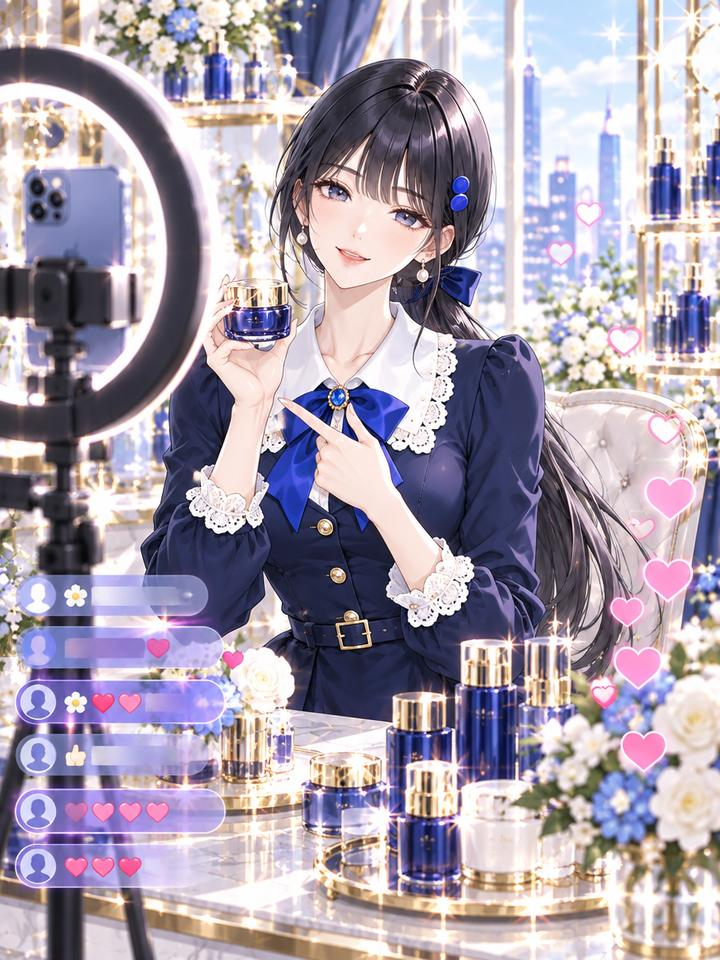
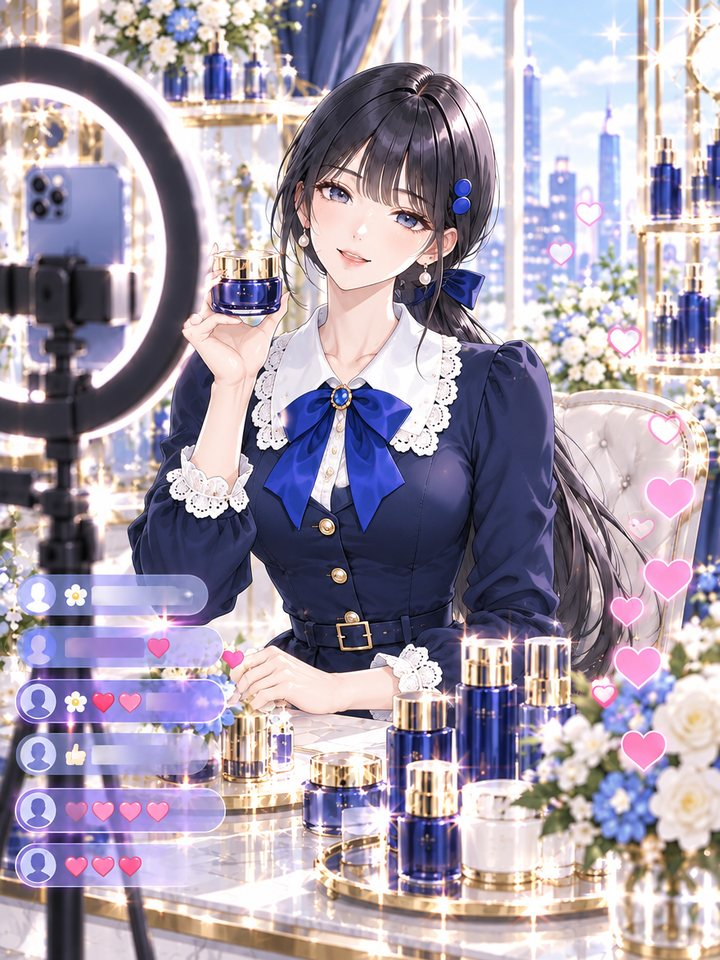
fix: cg_chuseok_30·cg_fake3·act_live_mid 팔 오류 수정 (빌드 2026.11.11-F)
Claude-Session: https://claude.ai/code/session_01TQ9M24cEoVVHrnb37iRmR3

diff --git a/sw.js b/sw.js
@@ -1,4 +1,4 @@
-const CACHE='stagezero-4fc27ec99d';
+const CACHE='stagezero-fd476949c8';
 const ASSETS=["./", "index.html", "manifest.json", "icon-192.png", "icon-512.png", "apple-touch-icon.png", "art/act_academy.jpg", "art/act_academy_late.jpg", "art/act_academy_mid.jpg", "art/act_acting.jpg", "art/act_acting_late.jpg", "art/act_acting_mid.jpg", "art/act_art.jpg", "art/act_art_late.jpg", "art/act_art_mid.jpg", "art/act_blind.jpg", "art/act_board.jpg", "art/act_brandlab.jpg", "art/act_brandlab_late.jpg", "art/act_brandlab_mid.jpg", "art/act_cert.jpg", "art/act_cert_late.jpg", "art/act_cert_mid.jpg", "art/act_club.jpg", "art/act_concert.jpg", "art/act_concert_late.jpg", "art/act_concert_mid.jpg", "art/act_date.jpg", "art/act_diet.jpg", "art/act_diet_late.jpg", "art/act_diet_mid.jpg", "art/act_emba.jpg", "art/act_expo.jpg", "art/act_expo_late.jpg", "art/act_expo_mid.jpg", "art/act_growth.jpg", "art/act_growth_late.jpg", "art/act_growth_mid.jpg", "art/act_hire.jpg", "art/act_hire_late.jpg", "art/act_hire_mid.jpg", "art/act_ir.jpg", "art/act_ir_late.jpg", "art/act_ir_mid.jpg", "art/act_lang.jpg", "art/act_lang_late.jpg", "art/act_lang_mid.jpg", "art/act_live.jpg", "art/act_live_late.jpg", "art/act_live_mid.jpg", "art/act_mba.jpg", "art/act_mba_late.jpg", "art/act_mba_mid.jpg", "art/act_oneday.jpg", "art/act_oneday_late.jpg", "art/act_oneday_mid.jpg", "art/act_party.jpg", "art/act_party_late.jpg", "art/act_party_mid.jpg", "art/act_pet.jpg", "art/act_pet_late.jpg", "art/act_pet_mid.jpg", "art/act_phd.jpg", "art/act_picnic.jpg", "art/act_picnic_late.jpg", "art/act_picnic_mid.jpg", "art/act_pilates.jpg", "art/act_pilates_late.jpg", "art/act_pilates_mid.jpg", "art/act_popup.jpg", "art/act_popup_late.jpg", "art/act_popup_mid.jpg", "art/act_pt_cafe.jpg", "art/act_pt_cafe_mid.jpg", "art/act_pt_clinic.jpg", "art/act_pt_clinic_late.jpg", "art/act_pt_clinic_mid.jpg", "art/act_pt_consult.jpg", "art/act_pt_consult_late.jpg", "art/act_pt_consult_mid.jpg", "art/act_pt_cvs.jpg", "art/act_pt_hb.jpg", "art/act_pt_hb_mid.jpg", "art/act_pt_host.jpg", "art/act_pt_host_late.jpg", "art/act_pt_host_mid.jpg", "art/act_pt_influ.jpg", "art/act_pt_lecture.jpg", "art/act_pt_lecture_late.jpg", "art/act_pt_lecture_mid.jpg", "art/act_pt_model.jpg", "art/act_pt_model_late.jpg", "art/act_pt_model_mid.jpg", "art/act_pt_mua.jpg", "art/act_pt_mua_late.jpg", "art/act_pt_mua_mid.jpg", "art/act_rest.jpg", "art/act_rest_late.jpg", "art/act_rest_mid.jpg", "art/act_rnd.jpg", "art/act_rnd_late.jpg", "art/act_rnd_mid.jpg", "art/act_running.jpg", "art/act_running_late.jpg", "art/act_running_mid.jpg", "art/act_seed.jpg", "art/act_seed_late.jpg", "art/act_seed_mid.jpg", "art/act_shoot.jpg", "art/act_shoot_late.jpg", "art/act_shoot_mid.jpg", "art/act_spa.jpg", "art/act_spa_late.jpg", "art/act_spa_mid.jpg", "art/act_temple.jpg", "art/act_temple_late.jpg", "art/act_temple_mid.jpg", "art/act_vacation.jpg", "art/act_vacation_late.jpg", "art/act_vacation_mid.jpg", "art/act_visit.jpg", "art/act_visit_late.jpg", "art/act_visit_mid.jpg", "art/act_weight.jpg", "art/act_weight_late.jpg", "art/act_weight_mid.jpg", "art/act_yoga.jpg", "art/act_yoga_late.jpg", "art/act_yoga_mid.jpg", "art/age20_autumn.jpg", "art/age20_autumn_t.jpg", "art/age20_ok.jpg", "art/age20_spring.jpg", "art/age20_spring_t.jpg", "art/age20_summer.jpg", "art/age20_summer_t.jpg", "art/age20_tired.jpg", "art/age20_tired_t.jpg", "art/age20_winter.jpg", "art/age20_winter_t.jpg", "art/age22_autumn.jpg", "art/age22_autumn_t.jpg", "art/age22_ok.jpg", "art/age22_spring.jpg", "art/age22_spring_t.jpg", "art/age22_summer.jpg", "art/age22_summer_t.jpg", "art/age22_tired.jpg", "art/age22_tired_t.jpg", "art/age22_winter.jpg", "art/age22_winter_t.jpg", "art/age25_autumn.jpg", "art/age25_autumn_t.jpg", "art/age25_ok.jpg", "art/age25_spring.jpg", "art/age25_spring_t.jpg", "art/age25_summer.jpg", "art/age25_summer_t.jpg", "art/age25_tired.jpg", "art/age25_tired_t.jpg", "art/age25_winter.jpg", "art/age25_winter_t.jpg", "art/age27_autumn.jpg", "art/age27_autumn_t.jpg", "art/age27_ok.jpg", "art/age27_spring.jpg", "art/age27_spring_t.jpg", "art/age27_summer.jpg", "art/age27_summer_t.jpg", "art/age27_tired.jpg", "art/age27_tired_t.jpg", "art/age27_winter.jpg", "art/age27_winter_t.jpg", "art/age30_autumn.jpg", "art/age30_autumn_t.jpg", "art/age30_ok.jpg", "art/age30_spring.jpg", "art/age30_spring_t.jpg", "art/age30_summer.jpg", "art/age30_summer_t.jpg", "art/age30_tired.jpg", "art/age30_tired_t.jpg", "art/age30_winter.jpg", "art/age30_winter_t.jpg", "art/bg_amusement.jpg", "art/bg_beach.jpg", "art/bg_cafe.jpg", "art/bg_gallery.jpg", "art/bg_hangang.jpg", "art/bg_home.jpg", "art/bg_meeting.jpg", "art/bg_office1.jpg", "art/bg_office2.jpg", "art/bg_rain.jpg", "art/bg_restaurant.jpg", "art/bg_rooftop.jpg", "art/bg_ski.jpg", "art/bg_snow.jpg", "art/bg_street.jpg", "art/cg_autumn_dry_20.jpg", "art/cg_autumn_dry_22.jpg", "art/cg_autumn_dry_25.jpg", "art/cg_autumn_dry_27.jpg", "art/cg_autumn_dry_30.jpg", "art/cg_awards.jpg", "art/cg_bday.jpg", "art/cg_breakup.jpg", "art/cg_celeb.jpg", "art/cg_ch1.jpg", "art/cg_ch2.jpg", "art/cg_ch3.jpg", "art/cg_ch4.jpg", "art/cg_chuseok.jpg", "art/cg_chuseok_20.jpg", "art/cg_chuseok_22.jpg", "art/cg_chuseok_25.jpg", "art/cg_chuseok_27.jpg", "art/cg_chuseok_30.jpg", "art/cg_colon_open.jpg", "art/cg_colon_quit.jpg", "art/cg_colon_secret.jpg", "art/cg_confess.jpg", "art/cg_confess_ceo2.jpg", "art/cg_confess_colon.jpg", "art/cg_confess_intern.jpg", "art/cg_confess_playboy.jpg", "art/cg_confess_star.jpg", "art/cg_confess_vc.jpg", "art/cg_date.jpg", "art/cg_fake1.jpg", "art/cg_fake2.jpg", "art/cg_fake3.jpg", "art/cg_fashion.jpg", "art/cg_filming.jpg", "art/cg_finalday.jpg", "art/cg_first_snow.jpg", "art/cg_first_snow_20.jpg", "art/cg_first_snow_22.jpg", "art/cg_first_snow_25.jpg", "art/cg_first_snow_27.jpg", "art/cg_first_snow_30.jpg", "art/cg_health.jpg", "art/cg_hero_vc1.jpg", "art/cg_hero_vc2.jpg", "art/cg_hero_vc3.jpg", "art/cg_hero_vc4.jpg", "art/cg_intern_lead.jpg", "art/cg_lab.jpg", "art/cg_letter.jpg", "art/cg_ma.jpg", "art/cg_magazine.jpg", "art/cg_monsoon.jpg", "art/cg_monsoon_20.jpg", "art/cg_monsoon_22.jpg", "art/cg_monsoon_25.jpg", "art/cg_monsoon_27.jpg", "art/cg_monsoon_30.jpg", "art/cg_parents.jpg", "art/cg_party.jpg", "art/cg_pet.jpg", "art/cg_premiere.jpg", "art/cg_prologue.jpg", "art/cg_promo.jpg", "art/cg_propose.jpg", "art/cg_propose_ceo2.jpg", "art/cg_propose_colon.jpg", "art/cg_propose_intern.jpg", "art/cg_propose_playboy.jpg", "art/cg_propose_star.jpg", "art/cg_propose_vc.jpg", "art/cg_retail.jpg", "art/cg_rival1.jpg", "art/cg_rival2.jpg", "art/cg_rival3.jpg", "art/cg_rival4.jpg", "art/cg_rival5.jpg", "art/cg_rival_final.jpg", "art/cg_rlover.jpg", "art/cg_sakura.jpg", "art/cg_sakura_20.jpg", "art/cg_sakura_22.jpg", "art/cg_sakura_25.jpg", "art/cg_sakura_27.jpg", "art/cg_sakura_30.jpg", "art/cg_scandal.jpg", "art/cg_script.jpg", "art/cg_soldout.jpg", "art/cg_spring_fever_20.jpg", "art/cg_spring_fever_22.jpg", "art/cg_spring_fever_25.jpg", "art/cg_spring_fever_27.jpg", "art/cg_spring_fever_30.jpg", "art/cg_staff_burnout.jpg", "art/cg_staff_conflict.jpg", "art/cg_staff_idea.jpg", "art/cg_staff_mistake.jpg", "art/cg_staff_viral.jpg", "art/cg_summer_vac_20.jpg", "art/cg_summer_vac_22.jpg", "art/cg_summer_vac_25.jpg", "art/cg_summer_vac_27.jpg", "art/cg_summer_vac_30.jpg", "art/cg_supply.jpg", "art/cg_triangle.jpg", "art/cg_trip_summer.jpg", "art/cg_trip_winter.jpg", "art/cg_tvshow.jpg", "art/cg_workshop.jpg", "art/cg_yearend_20.jpg", "art/cg_yearend_22.jpg", "art/cg_yearend_25.jpg", "art/cg_yearend_27.jpg", "art/cg_yearend_30.jpg", "art/cover.jpg", "art/end_academy.jpg", "art/end_actress.jpg", "art/end_author.jpg", "art/end_bankrupt.jpg", "art/end_barista.jpg", "art/end_burnout.jpg", "art/end_chair.jpg", "art/end_clinic.jpg", "art/end_consult.jpg", "art/end_couture.jpg", "art/end_cvs.jpg", "art/end_director.jpg", "art/end_exit.jpg", "art/end_hbmd.jpg", "art/end_host.jpg", "art/end_indie.jpg", "art/end_influencer.jpg", "art/end_lab.jpg", "art/end_minister.jpg", "art/end_model.jpg", "art/end_mua.jpg", "art/end_nolaunch.jpg", "art/end_olive.jpg", "art/end_plain.jpg", "art/end_vc.jpg", "art/face_age20.jpg", "art/face_age22.jpg", "art/face_age25.jpg", "art/face_age27.jpg", "art/face_age30.jpg", "art/face_rival.jpg", "art/judge_buyer.jpg", "art/judge_derma.jpg", "art/judge_editor.jpg", "art/mini_academy_a.png", "art/mini_academy_b.png", "art/mini_acting_a.png", "art/mini_acting_b.png", "art/mini_art_a.png", "art/mini_art_b.png", "art/mini_blind_a.png", "art/mini_blind_b.png", "art/mini_board_a.png", "art/mini_brandlab_a.png", "art/mini_cert_a.png", "art/mini_club_a.png", "art/mini_club_b.png", "art/mini_concert_a.png", "art/mini_date_a.png", "art/mini_date_b.png", "art/mini_diet_a.png", "art/mini_diet_b.png", "art/mini_emba_a.png", "art/mini_expo_a.png", "art/mini_expo_b.png", "art/mini_growth_a.png", "art/mini_growth_b.png", "art/mini_hire_a.png", "art/mini_hire_b.png", "art/mini_ir_a.png", "art/mini_ir_b.png", "art/mini_lang_a.png", "art/mini_live_a.png", "art/mini_live_b.png", "art/mini_mba_a.png", "art/mini_mba_b.png", "art/mini_oneday_a.png", "art/mini_party_a.png", "art/mini_party_b.png", "art/mini_pet_a.png", "art/mini_phd_a.png", "art/mini_picnic_a.png", "art/mini_pilates_a.png", "art/mini_pilates_b.png", "art/mini_popup_a.png", "art/mini_popup_b.png", "art/mini_pt_cafe_a.png", "art/mini_pt_cafe_b.png", "art/mini_pt_clinic_a.png", "art/mini_pt_clinic_b.png", "art/mini_pt_consult_a.png", "art/mini_pt_consult_b.png", "art/mini_pt_cvs_a.png", "art/mini_pt_cvs_b.png", "art/mini_pt_hb_a.png", "art/mini_pt_hb_b.png", "art/mini_pt_host_a.png", "art/mini_pt_host_b.png", "art/mini_pt_influ_a.png", "art/mini_pt_influ_b.png", "art/mini_pt_lecture_a.png", "art/mini_pt_lecture_b.png", "art/mini_pt_model_a.png", "art/mini_pt_model_b.png", "art/mini_pt_mua_a.png", "art/mini_pt_mua_b.png", "art/mini_rest_a.png", "art/mini_rest_b.png", "art/mini_rnd_a.png", "art/mini_rnd_b.png", "art/mini_running_a.png", "art/mini_running_b.png", "art/mini_seed_a.png", "art/mini_seed_b.png", "art/mini_shoot_a.png", "art/mini_shoot_b.png", "art/mini_spa_a.png", "art/mini_spa_b.png", "art/mini_temple_a.png", "art/mini_vacation_a.png", "art/mini_vacation_b.png", "art/mini_visit_a.png", "art/mini_weight_a.png", "art/mini_weight_b.png", "art/mini_yoga_a.png", "art/mini_yoga_b.png", "art/outfit_ballet_20.jpg", "art/outfit_ballet_20_t.jpg", "art/outfit_ballet_22.jpg", "art/outfit_ballet_22_t.jpg", "art/outfit_ballet_25.jpg", "art/outfit_ballet_25_t.jpg", "art/outfit_ballet_27.jpg", "art/outfit_ballet_27_t.jpg", "art/outfit_ballet_30.jpg", "art/outfit_ballet_30_t.jpg", "art/outfit_blazer_20.jpg", "art/outfit_blazer_20_t.jpg", "art/outfit_blazer_22.jpg", "art/outfit_blazer_22_t.jpg", "art/outfit_blazer_25.jpg", "art/outfit_blazer_25_t.jpg", "art/outfit_blazer_27.jpg", "art/outfit_blazer_27_t.jpg", "art/outfit_blazer_30.jpg", "art/outfit_blazer_30_t.jpg", "art/outfit_hanbok_22.jpg", "art/outfit_hanbok_22_t.jpg", "art/outfit_hanbok_25.jpg", "art/outfit_hanbok_25_t.jpg", "art/outfit_hanbok_27.jpg", "art/outfit_hanbok_27_t.jpg", "art/outfit_hanbok_30.jpg", "art/outfit_hanbok_30_t.jpg", "art/outfit_slip_22.jpg", "art/outfit_slip_22_t.jpg", "art/outfit_slip_25.jpg", "art/outfit_slip_25_t.jpg", "art/outfit_slip_27.jpg", "art/outfit_slip_27_t.jpg", "art/outfit_slip_30.jpg", "art/outfit_slip_30_t.jpg", "art/outfit_trench_25.jpg", "art/outfit_trench_25_t.jpg", "art/outfit_trench_27.jpg", "art/outfit_trench_27_t.jpg", "art/outfit_trench_30.jpg", "art/outfit_trench_30_t.jpg", "art/potion_aes.png", "art/potion_biz.png", "art/potion_charm.png", "art/potion_rnd.png", "art/prod_1.jpg", "art/prod_2.jpg", "art/prod_3.jpg", "art/prod_4.jpg", "art/prod_5.jpg", "art/prod_6.jpg", "art/prod_7.jpg", "art/prod_8.jpg", "art/rc_rival1.jpg", "art/rc_rival2.jpg", "art/rc_rival3.jpg", "art/sec2_daon.jpg", "art/sec2_yuna.jpg", "art/secretary.jpg", "art/spr_lv_ceo2.png", "art/spr_lv_colon.png", "art/spr_lv_intern.png", "art/spr_lv_playboy.png", "art/spr_lv_star.png", "art/spr_lv_vc.png", "art/spr_mom.png", "art/spr_reporter.png", "art/spr_rival_angry.png", "art/spr_rival_smile.png", "art/spr_rival_smug.png", "art/spr_sec.png", "art/spr_sec_alarm.png", "art/spr_team.png", "art/spr_vc.png", "art/t0_ok.jpg", "art/t0_tired.jpg", "art/t1_ok.jpg", "art/t1_tired.jpg", "art/t2_ok.jpg", "art/t2_tired.jpg", "art/t3_ok.jpg", "art/t3_tired.jpg"];
 self.addEventListener('install',e=>{ self.skipWaiting(); e.waitUntil((async()=>{
   const c=await caches.open(CACHE); let done=0; const total=ASSETS.length;

diff --git a/index.html b/index.html
@@ -682,7 +682,7 @@ html.ios-app .phone{bottom:auto;height:max(100vh,var(--appH,100vh))}
           <button class="btn ghost" id="btn-load" hidden>이어하기</button>
           <button class="btn ghost" id="btn-open-load" hidden>불러오기</button>
         </div>
-        <span class="build-tag">CANVAS LABS · BUILD 2026.11.11-E</span>
+        <span class="build-tag">CANVAS LABS · BUILD 2026.11.11-F</span>
       </div>
     </div>
   </section>
@@ -6194,7 +6194,7 @@ document.addEventListener('click', ev => { const b = ev.target.closest && ev.tar
 // 구글 시트(Apps Script 웹앱) 주소를 넣으면 시작·챕터·엔딩 기록이 익명으로 쌓인다. 비어 있으면 아무것도 보내지 않는다
 const STATS_URL = '';
 const GAME_URL = 'https://3678132-rgb.github.io/stagezero-maker/';
-const BUILD_TAG = '2026.11.11-E';
+const BUILD_TAG = '2026.11.11-F';
 function playerId() { try {
     let id = localStorage.getItem('sz_pid');
     if (!id) {
